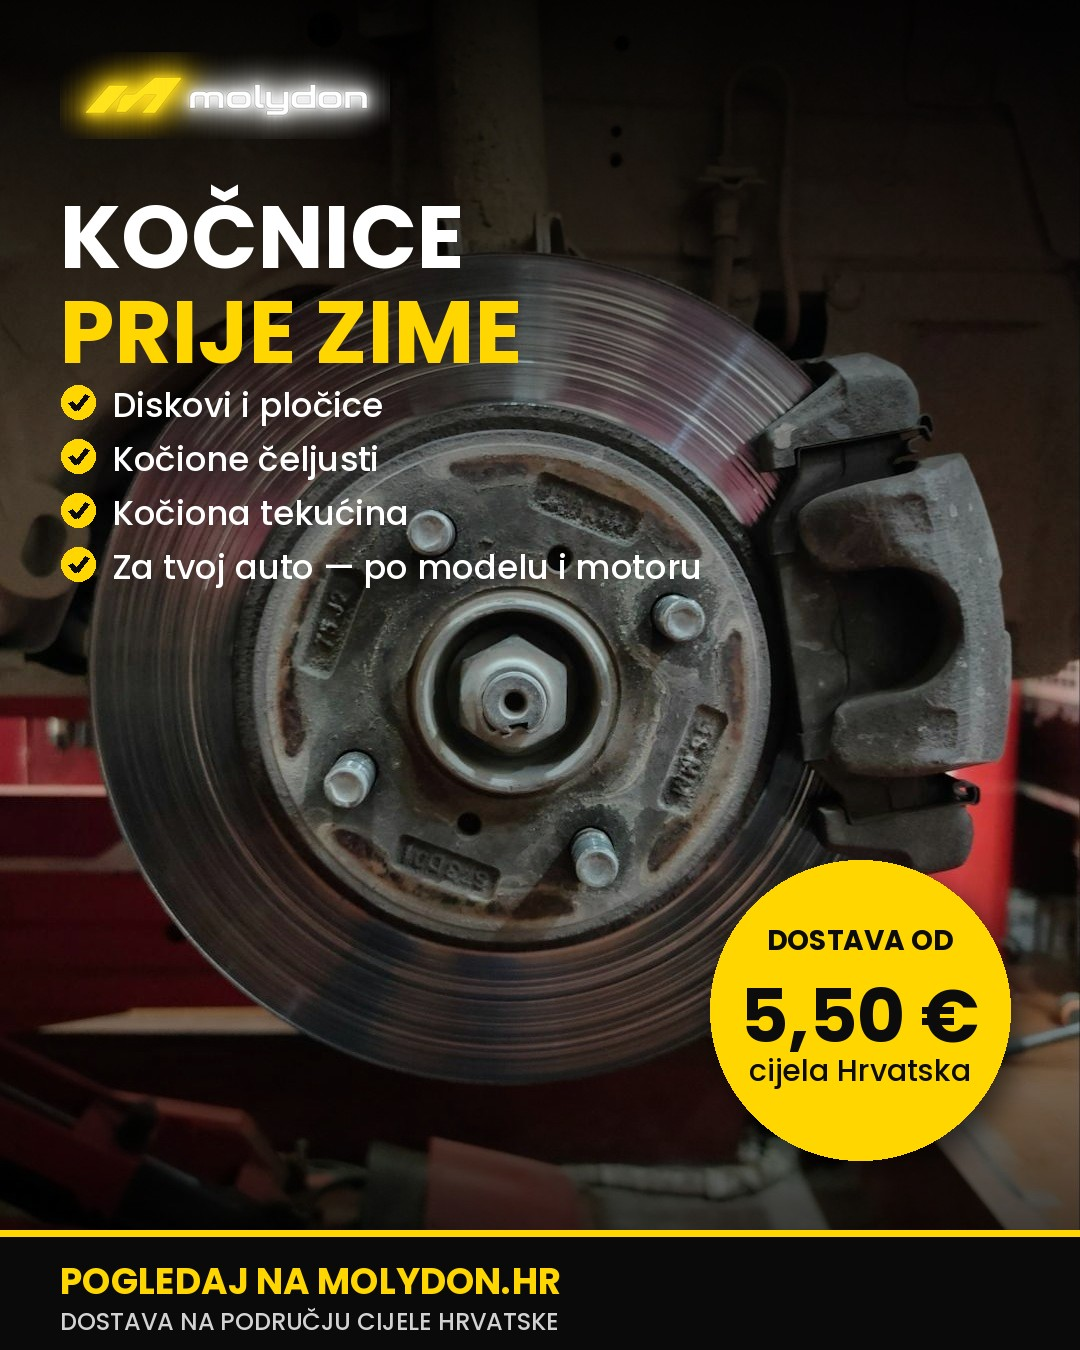
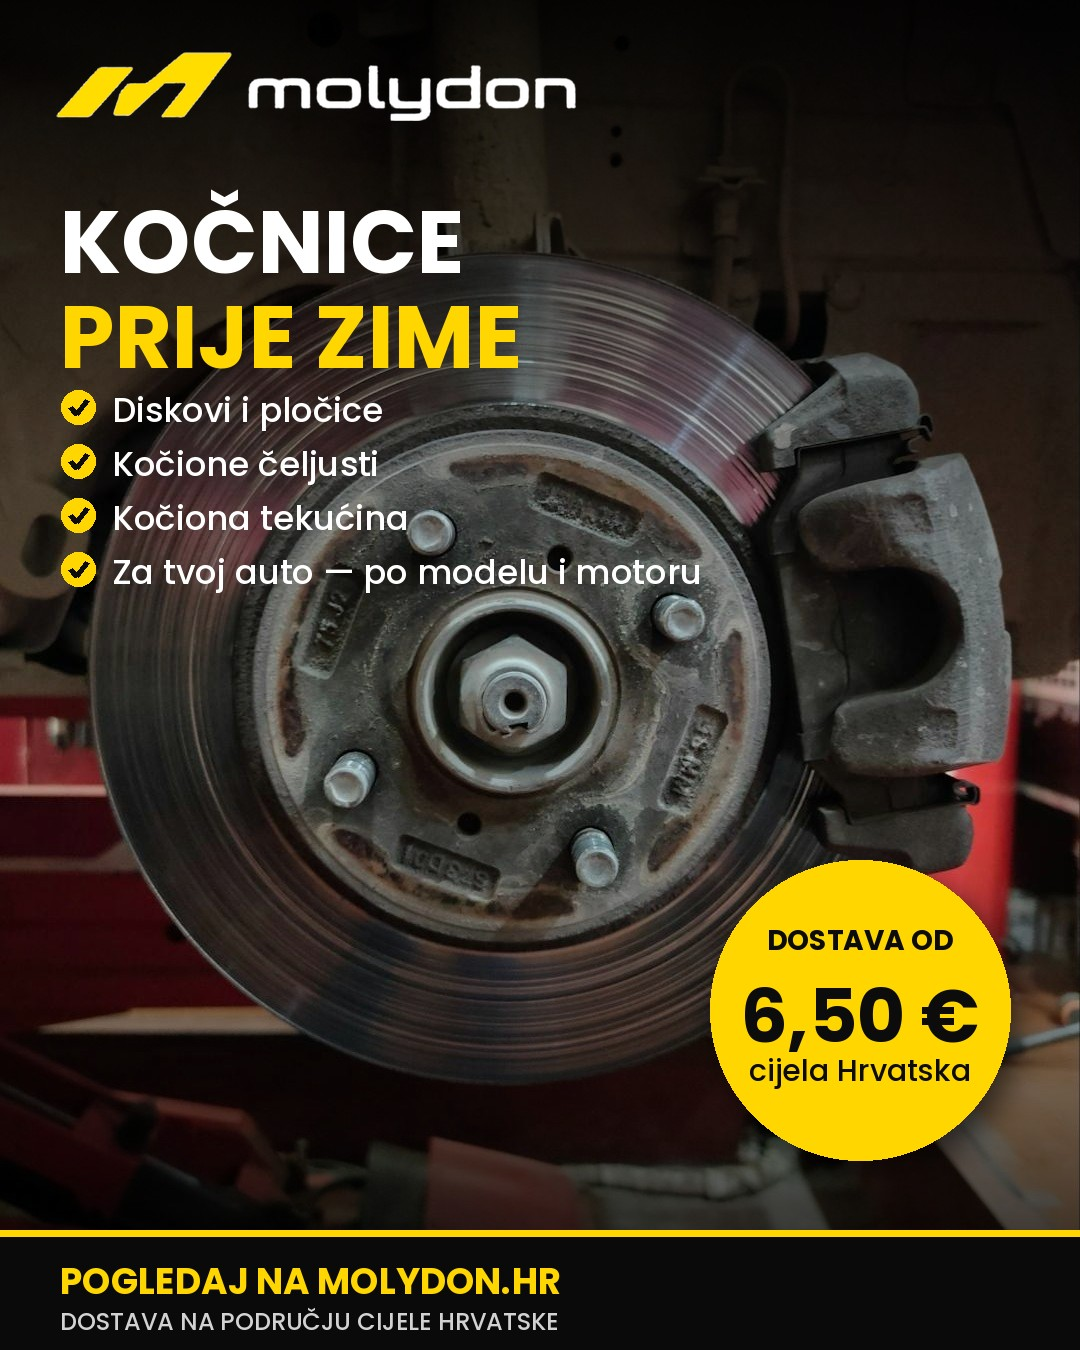
Dostava 6,50 € (auto dijelovi), popravak teksta objavljenih, log greške

diff --git a/tools/build2.py b/tools/build2.py
@@ -429,7 +429,7 @@ Na Molydonu je online katalog s više od 270.000 auto dijelova. Nema pogađanja 
 
 ✅ Originalni i zamjenski dijelovi
 ✅ Kočnice, filteri, ovjes, remeni, kvačilo, elektrika…
-✅ Dostava na području cijele Hrvatske već od 5,50 €
+✅ Dostava na području cijele Hrvatske već od 6,50 €
 ✅ Stručna pomoć ako zapne
 
 👉 {AD}
@@ -442,7 +442,7 @@ Za mehaničare i za one koji sami servisiraju auto. 🛠
 photo_sale_post(OUT / "media/a02-kocnice.jpg", "brake",
                 [("Kočnice", WHITE), ("prije zime", YEL)],
                 ["Diskovi i pločice", "Kočione čeljusti", "Kočiona tekućina", "Za tvoj auto — po modelu i motoru"],
-                "5,50 €", "cijela Hrvatska", "DOSTAVA OD", bgopts={"darken_top": 0.85, "bright": 0.85})
+                "6,50 €", "cijela Hrvatska", "DOSTAVA OD", bgopts={"darken_top": 0.85, "bright": 0.85})
 post("2026-10-10-1800-a-kocnice-fb", "2026-10-10T18:00:00+02:00", ["fb:molydon"], "a02-kocnice.jpg", f"""
 🛑 KOČNICE PRIJE ZIME — PROVJERI DOK JE SUHO
 
@@ -459,7 +459,7 @@ Na mokroj i skliskoj cesti kočnice rade najteži posao. Znakovi da je vrijeme z
 ✅ Kočiona tekućina
 
 Samo odaberi marku, model i motor — i vidiš dijelove koji odgovaraju tvom autu. 🚗
-🚚 Dostava na području cijele Hrvatske već od 5,50 €
+🚚 Dostava na području cijele Hrvatske već od 6,50 €
 
 👉 {AD}
 
@@ -469,7 +469,7 @@ Samo odaberi marku, model i motor — i vidiš dijelove koji odgovaraju tvom aut
 photo_sale_post(OUT / "media/a03-servis.jpg", "oil",
                 [("Mali servis", WHITE), ("prije zime", YEL)],
                 ["Filter ulja i motorno ulje", "Filter zraka", "Filter kabine", "Filter goriva"],
-                "5,50 €", "cijela Hrvatska", "DOSTAVA OD", bgopts={"darken_top": 0.88, "bright": 0.85})
+                "6,50 €", "cijela Hrvatska", "DOSTAVA OD", bgopts={"darken_top": 0.88, "bright": 0.85})
 post("2026-10-12-1800-a-servis-fb", "2026-10-12T18:00:00+02:00", ["fb:molydon"], "a03-servis.jpg", f"""
 🛢 MALI SERVIS PRIJE ZIME? SVE NA JEDNOM MJESTU
 
@@ -482,7 +482,7 @@ Hladni startovi najviše troše motor — zato je jesen najbolje vrijeme za svje
 ✅ Kompleti filtera za tvoj model
 
 🔎 Odaberi marku, model i motor — katalog prikazuje samo dijelove koji odgovaraju.
-🚚 Dostava na području cijele Hrvatske već od 5,50 €
+🚚 Dostava na području cijele Hrvatske već od 6,50 €
 
 👉 {AD}
 
@@ -494,7 +494,7 @@ Hladni startovi najviše troše motor — zato je jesen najbolje vrijeme za svje
 photo_sale_post(OUT / "media/a04-brisaci.jpg", "wiper",
                 [("Vidiš li cestu", WHITE), ("kad pada kiša?", YEL)],
                 ["Ostavljaju pruge ili škripe?", "Vrijeme je za nove metlice", "Po modelu tvog auta"],
-                "5,50 €", "cijela Hrvatska", "DOSTAVA OD", bgopts={"darken_top": 0.88, "bright": 0.9})
+                "6,50 €", "cijela Hrvatska", "DOSTAVA OD", bgopts={"darken_top": 0.88, "bright": 0.9})
 post("2026-10-13-1800-a-brisaci-fb", "2026-10-13T18:00:00+02:00", ["fb:molydon"], "a04-brisaci.jpg", f"""
 🌧 VIDIŠ LI CESTU KAD PADA KIŠA?
 
@@ -510,7 +510,7 @@ Znakovi da je vrijeme za nove metlice:
 ✅ Brisači, pumpice i brizgaljke
 
 🔎 Odaberi marku, model i motor u katalogu i vidiš što odgovara.
-🚚 Dostava na području cijele Hrvatske već od 5,50 €
+🚚 Dostava na području cijele Hrvatske već od 6,50 €
 
 👉 {AD}
 

diff --git a/tools/fix_captions.py b/tools/fix_captions.py
@@ -1,0 +1,24 @@
+"""Uskladi tekst vec objavljenih FB objava s queue/ (npr. ispravak cijene dostave)."""
+import json, os, glob, sys
+sys.path.insert(0, '.')
+import publish as P
+out = {}
+tok = os.environ.get("META_TOKEN", "")
+try:
+    out["me"] = P.call("GET", "me", {"fields": "id,name", "access_token": tok}, retries=1)
+    acc = json.load(open("accounts.json"))["fb:molydon"]
+    pid = P.resolve_page_id(acc, tok); ptok = P.page_token(pid, tok)
+except Exception as e:
+    out["token_error"] = str(e)[:500]
+    json.dump(out, open("state/_popravak.json", "w"), ensure_ascii=False, indent=1); sys.exit(1)
+ids = sys.argv[1:]
+for sid in ids:
+    st = json.load(open(f"state/{sid}.json")); it = json.load(open(f"queue/{sid}.json"))
+    for i in st.get("ids", []):
+        obj = i if "_" in i else f"{pid}_{i}"
+        try:
+            out[sid] = P.call("POST", obj, {"message": it["caption"], "access_token": ptok}, retries=1)
+        except Exception as e:
+            out[sid] = {"error": str(e)[:400]}
+json.dump(out, open("state/_popravak.json", "w"), ensure_ascii=False, indent=1)
+print(json.dumps(out, ensure_ascii=False)[:2000])
